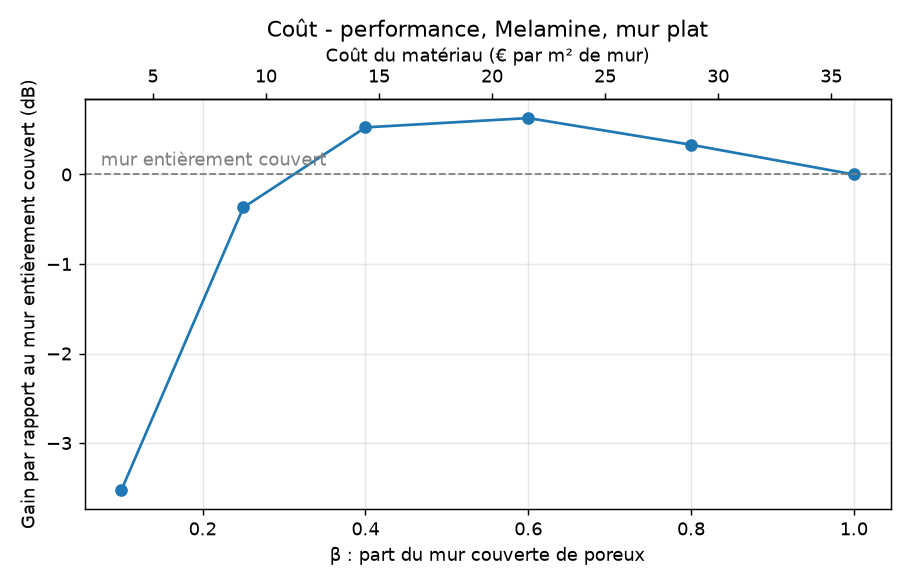
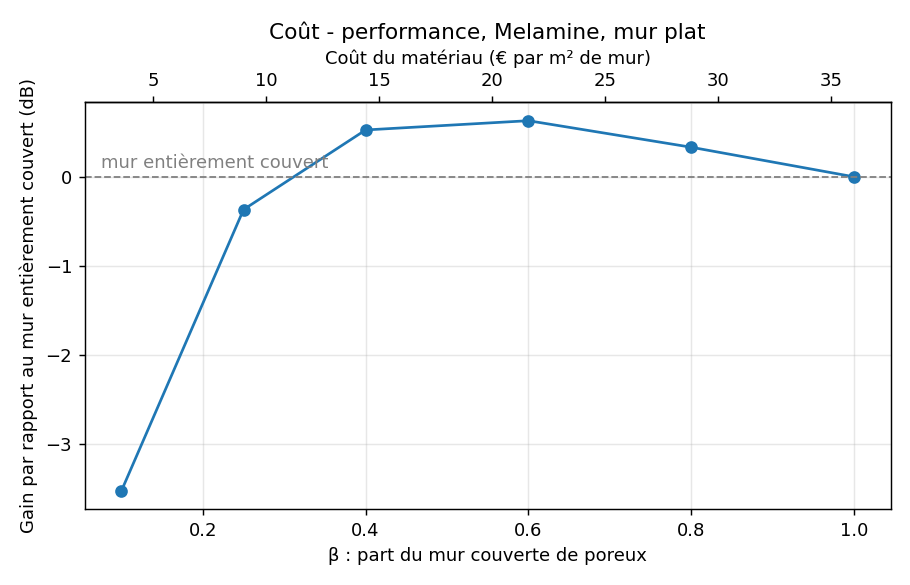
nettoye

diff --git a/courbe_cout_performance.py b/courbe_cout_performance.py
@@ -1,20 +1,3 @@
-# -*- coding: utf-8 -*-
-"""
-Courbe coût - performance pour un matériau et une forme de mur donnés.
-
-Principe (simple) :
-  1. on trouve les fréquences de résonance du mur NU (les plus gros pics de J(f)) ;
-  2. pour chaque quantité de poreux beta, on optimise la répartition chi
-     sur ces fréquences (somme des J, fonction our_optimization_procedure) ;
-  3. on mesure la performance = gain en dB par rapport au mur ENTIÈREMENT couvert,
-     à partir de l'énergie moyenne sur toute la plage de la voix ;
-     (on ne prend pas le mur nu comme référence : ses résonances sont des pics
-      quasi infinis, et leur moyenne dépend trop de la grille de fréquences) ;
-  4. on trace la performance en fonction de beta et du coût.
-
-Le coefficient alpha(omega) du matériau est calculé avec compute_alpha.py (fichier du cours).
-"""
-
 import contextlib
 import io
 import numpy
@@ -26,48 +9,34 @@ import processing
 import compute_alpha
 from demo_control_polycopie2024 import our_optimization_procedure_multiple, compute_objective_function
 
+N = 50
+level = 0
+c0 = 340.0
 
-# =====================================================================
-# PARAMÈTRES À CHOISIR
-# =====================================================================
-N = 50                     # points de la grille (domaine de 1 m x 1 m)
-level = 0                  # 0 = mur plat, 1 ou 2 = mur préfractal
-c0 = 340.0                 # vitesse du son (m/s), la même que dans compute_alpha.py
+betas = [0.1, 0.25, 0.4, 0.6, 0.8]
+nb_resonances = 5
+numb_iter = 20
 
-betas = [0.1, 0.25, 0.4, 0.6, 0.8]   # quantités de poreux testées (beta = 0 et 1 sont ajoutés)
-nb_resonances = 5          # nombre de fréquences de résonance utilisées pour optimiser
-numb_iter = 20             # itérations de la descente de gradient par beta
+f_min, f_max = 270.0, 1600.0
+prix_m2 = 36.0
 
-f_min, f_max = 270.0, 1600.0         # plage de la voix étudiée (Hz)
-prix_m2 = 36.0             # prix du matériau (€/m²), environ, mélamine achat grand public
-
-# matériau (porosité, résistivité, tortuosité) : mélamine
 material_name = 'Melamine'
 material = {'phi': 0.99, 'sigma': 14000.0, 'alpha_h': 1.02}
 
 
-# =====================================================================
-# FONCTIONS UTILES
-# =====================================================================
-alphas_calcules = {}        # pour ne pas recalculer alpha deux fois à la même fréquence
+alphas_calcules = {}
 
 
 def Alpha_code(k):
-    """Alpha à donner au code pour le nombre d'onde k.
-
-    compute_alpha.py donne alpha dans la convention du poly (dn u + alpha u = 0) ;
-    processing.py utilise la convention opposée, d'où le signe moins.
-    """
     if k not in alphas_calcules:
-        with contextlib.redirect_stdout(io.StringIO()):          # compute_alpha affiche beaucoup de texte
+        with contextlib.redirect_stdout(io.StringIO()):
             alpha, erreur = compute_alpha.compute_alpha(k * c0, material, material_name)
         alphas_calcules[k] = -alpha
     return alphas_calcules[k]
 
 
 def energie(k, chi):
-    """Énergie J pour un nombre d'onde k et une répartition chi."""
-    A = Alpha_code(k) if numpy.any(chi) else 0.0                 # mur nu : pas besoin d'alpha
+    A = Alpha_code(k) if numpy.any(chi) else 0.0
     with contextlib.redirect_stdout(io.StringIO()):
         u = processing.solve_helmholtz(domain_omega, spacestep, k, f, f_dir, f_neu, f_rob,
                                        beta_pde, alpha_pde, alpha_dir, beta_neu, beta_rob, A * chi)
@@ -75,66 +44,48 @@ def energie(k, chi):
 
 
 def energie_moyenne(chi):
-    """Moyenne de J sur toute la plage de la voix (grille régulière)."""
     return numpy.mean([energie(k, chi) for k in k_plage])
 
 
-# =====================================================================
-# MISE EN PLACE (comme dans le code fourni)
-# =====================================================================
 M = 2 * N
 spacestep = 1.0 / N
 beta_pde, alpha_pde, alpha_dir, beta_neu, alpha_rob, beta_rob = preprocessing._set_coefficients_of_pde(M, N)
 f, f_dir, f_neu, f_rob = preprocessing._set_rhs_of_pde(M, N)
 domain_omega, x, y, _, _ = preprocessing._set_geometry_of_domain(M, N, level)
 f_dir[:, :] = 0.0
-f_dir[0, 0:N] = 1.0                       # onde plane venant du haut
+f_dir[0, 0:N] = 1.0
 
 mur = (domain_omega == _env.NODE_ROBIN)
-chi_nu = numpy.zeros((M, N))              # mur nu : pas de poreux
-chi_plein = mur.astype(float)             # mur entièrement couvert
-facteur_surface = mur.sum() / N           # longueur du mur / largeur (1 pour un mur plat)
+chi_nu = numpy.zeros((M, N))
+chi_plein = mur.astype(float)
+facteur_surface = mur.sum() / N
 
-# grille de fréquences pour mesurer la performance
 k_plage = numpy.linspace(2 * numpy.pi * f_min / c0, 2 * numpy.pi * f_max / c0, 60)
 
 
-# =====================================================================
-# ÉTAPE 1 : fréquences de résonance du mur nu
-# =====================================================================
-print('Étape 1 : recherche des résonances du mur nu...')
 k_fin = numpy.linspace(k_plage[0], k_plage[-1], 200)
 J_nu = numpy.array([energie(k, chi_nu) for k in k_fin])
 pics = [i for i in range(1, len(k_fin) - 1) if J_nu[i] > J_nu[i - 1] and J_nu[i] > J_nu[i + 1]]
 pics = sorted(pics, key=lambda i: -J_nu[i])[:nb_resonances]     # les plus gros pics
 k_resonances = sorted(k_fin[pics])
-print('   résonances retenues (Hz) :', [round(k * c0 / (2 * numpy.pi)) for k in k_resonances])
 
-
-# =====================================================================
-# ÉTAPE 2 et 3 : optimisation et performance pour chaque beta
-# =====================================================================
-print('Calcul de alpha(omega) avec compute_alpha.py...')
 Alphas_resonances = [Alpha_code(k) for k in k_resonances]
 for k in k_plage:
     Alpha_code(k)
 
-J_plein = energie_moyenne(chi_plein)      # référence : le mur entièrement couvert (beta = 1)
+J_plein = energie_moyenne(chi_plein)
 resultats_beta = []
 resultats_dB = []
 resultats_chi = []
 
 for beta in betas:
-    print(f'Étape 2 : optimisation pour beta = {beta} ...')
-    chi0 = preprocessing.set2zero(preprocessing._set_chi(M, N, x, y), domain_omega)  # départ du code
-    with contextlib.redirect_stdout(io.StringIO()):                # cache l'affichage de l'optimisation
+    chi0 = preprocessing.set2zero(preprocessing._set_chi(M, N, x, y), domain_omega)
+    with contextlib.redirect_stdout(io.StringIO()):
         chi_opt, energy, u_list, grad = our_optimization_procedure_multiple(
             domain_omega, spacestep, k_resonances, f, f_dir, f_neu, f_rob,
             beta_pde, alpha_pde, alpha_dir, beta_neu, beta_rob, alpha_rob,
             Alphas_resonances, 5.0, chi0, beta, numb_iter=numb_iter)
-    # gain > 0 : moins de bruit qu'en couvrant tout le mur ; gain < 0 : plus de bruit
     gain = 10 * numpy.log10(J_plein / energie_moyenne(chi_opt))
-    print(f'   beta = {beta} : gain par rapport au mur plein = {gain:+.1f} dB')
     resultats_beta.append(beta)
     resultats_dB.append(gain)
     resultats_chi.append(chi_opt)
@@ -142,15 +93,6 @@ for beta in betas:
 resultats_beta.append(1.0)
 resultats_dB.append(0.0)
 resultats_chi.append(chi_plein)
-
-
-# =====================================================================
-# ÉTAPE 4 : tableau et courbe
-# =====================================================================
-cout = [b * facteur_surface * prix_m2 for b in resultats_beta]   # € de matériau par m² de mur
-print('\n beta | coût (€/m² de mur) | gain par rapport au mur plein (dB)')
-for b, c, g in zip(resultats_beta, cout, resultats_dB):
-    print(f' {b:4.2f} | {c:18.1f} | {g:+.1f}')
 
 fig, ax = plt.subplots(figsize=(7, 4.5))
 ax.plot(resultats_beta, resultats_dB, 'o-')
@@ -167,4 +109,4 @@ ax2.set_xlabel('Coût du matériau (€ par m² de mur)')
 plt.tight_layout()
 nom_figure = f'cout_performance_{material_name}_level{level}.png'
 plt.savefig(nom_figure, dpi=130)
-print(f'\nFigure enregistrée : {nom_figure}')
+print(f'\nfigure enregistrée: {nom_figure}')
